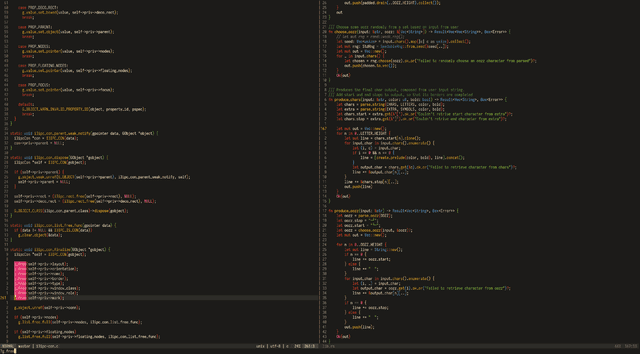
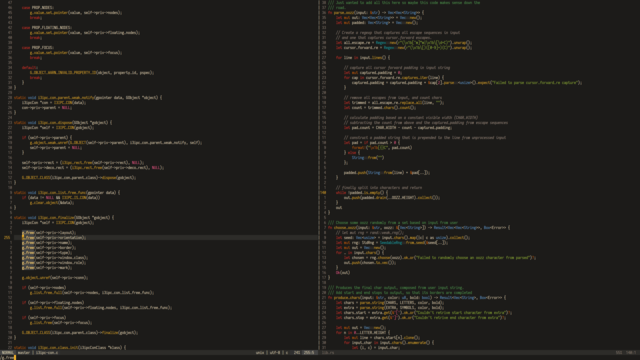
Update images (#144)
* Update screenshots to latest version

* Remove generater .js file

* Removed last generated files

Changed region(s): [[0.5, 0.0, 0.9062, 0.9944], [0.0, 0.0, 0.3125, 1.0], [0.4062, 0.9633, 0.5, 0.9944]]

diff --git a/index.html b/index.html
@@ -101,13 +101,13 @@ scripts: yes
     <h2 class="font-iosevka inline-block mb-6 border-b-2 border-white">Preview</h2>
     <div class="flex flex-col lg:flex-row flex-wrap px-1 sm:px-2 sm:-mx-2">
       <div class="w-full lg:w-1/2 mb-4 px-2">
-        <a data-fancybox="gallery" href="assets/images/bash_viml.png" data-caption="Shell / VimL">
-          <img class="lazy" alt="Bash/VimL" data-src="assets/images/bash_viml.min.png">
+        <a data-fancybox="gallery" href="assets/images/viml_bash.png" data-caption="VimL / Bash">
+          <img class="lazy" alt="Bash/VimL" data-src="assets/images/viml_bash.min.png">
         </a>
       </div>
       <div class="w-full lg:w-1/2 mb-4 px-2">
-        <a data-fancybox="gallery" href="assets/images/cljs_clj.png" data-caption="Clojure / Script">
-          <img class="lazy" alt="Clojure" data-src="assets/images/cljs_clj.min.png">
+        <a data-fancybox="gallery" href="assets/images/lisp.png" data-caption="Clojure / Elisp">
+          <img class="lazy" alt="Clojure" data-src="assets/images/lisp.min.png">
         </a>
       </div>
       <div class="w-full lg:w-1/2 mb-4 px-2">
@@ -118,6 +118,11 @@ scripts: yes
       <div class="w-full lg:w-1/2 mb-4 px-2">
         <a data-fancybox="gallery" href="assets/images/py_js.png" data-caption="Python / JavaScript">
           <img class="lazy" alt="Python/JavsScript" data-src="assets/images/py_js.min.png">
+        </a>
+      </div>
+      <div class="w-full lg:w-1/2 mb-4 px-2">
+        <a data-fancybox="gallery" href="assets/images/git_term.png" data-caption="Git / Terminal">
+          <img class="lazy" alt="Python/JavsScript" data-src="assets/images/git_term.min.png">
         </a>
       </div>
     </div>
